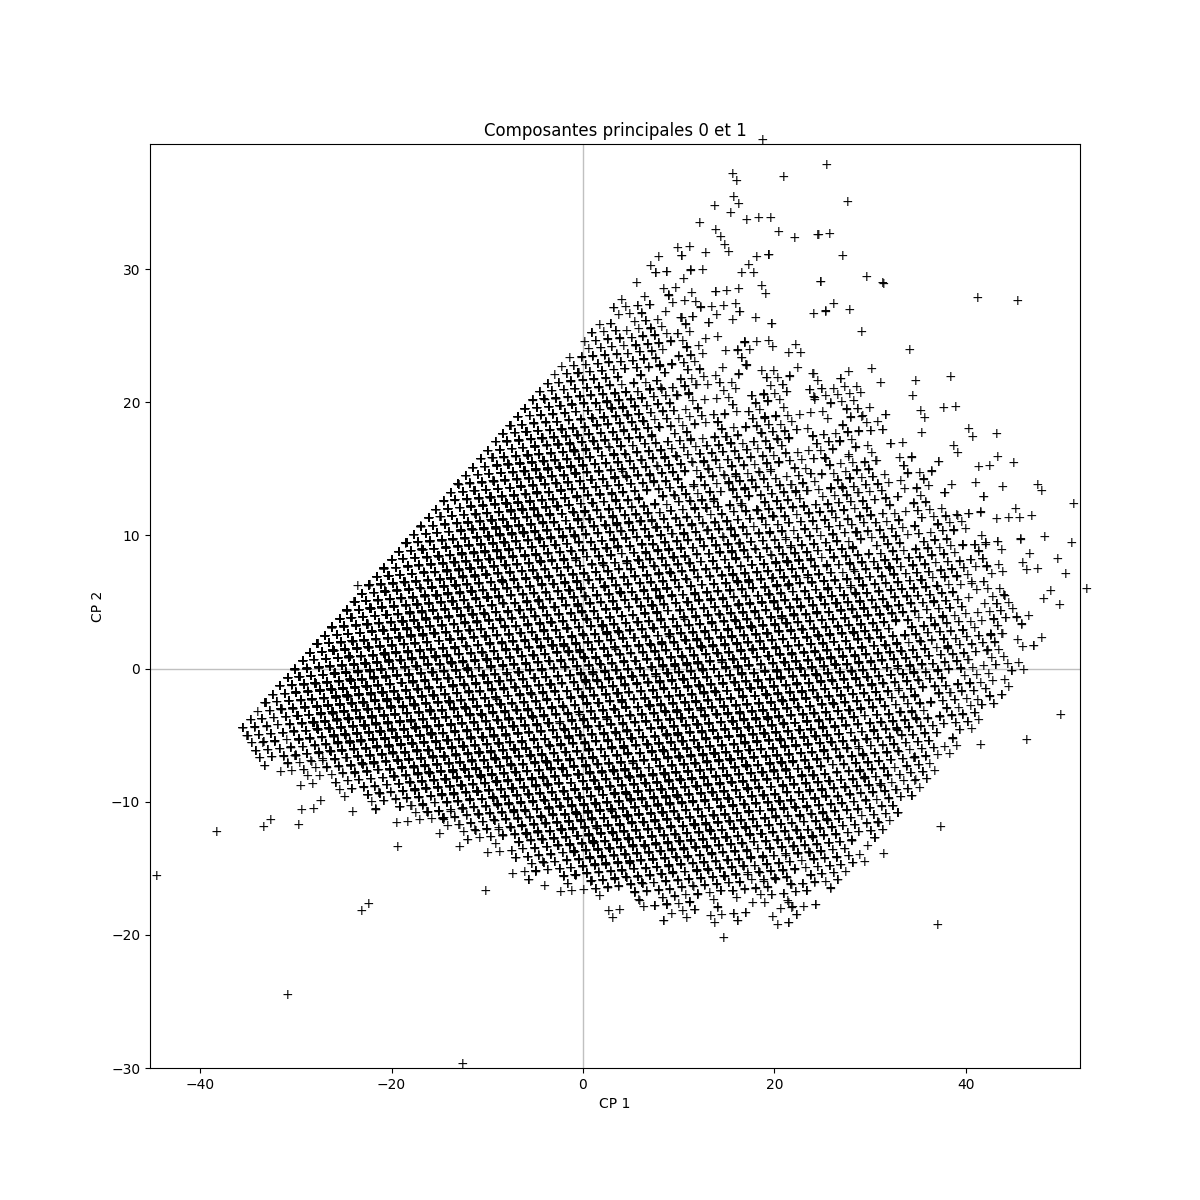
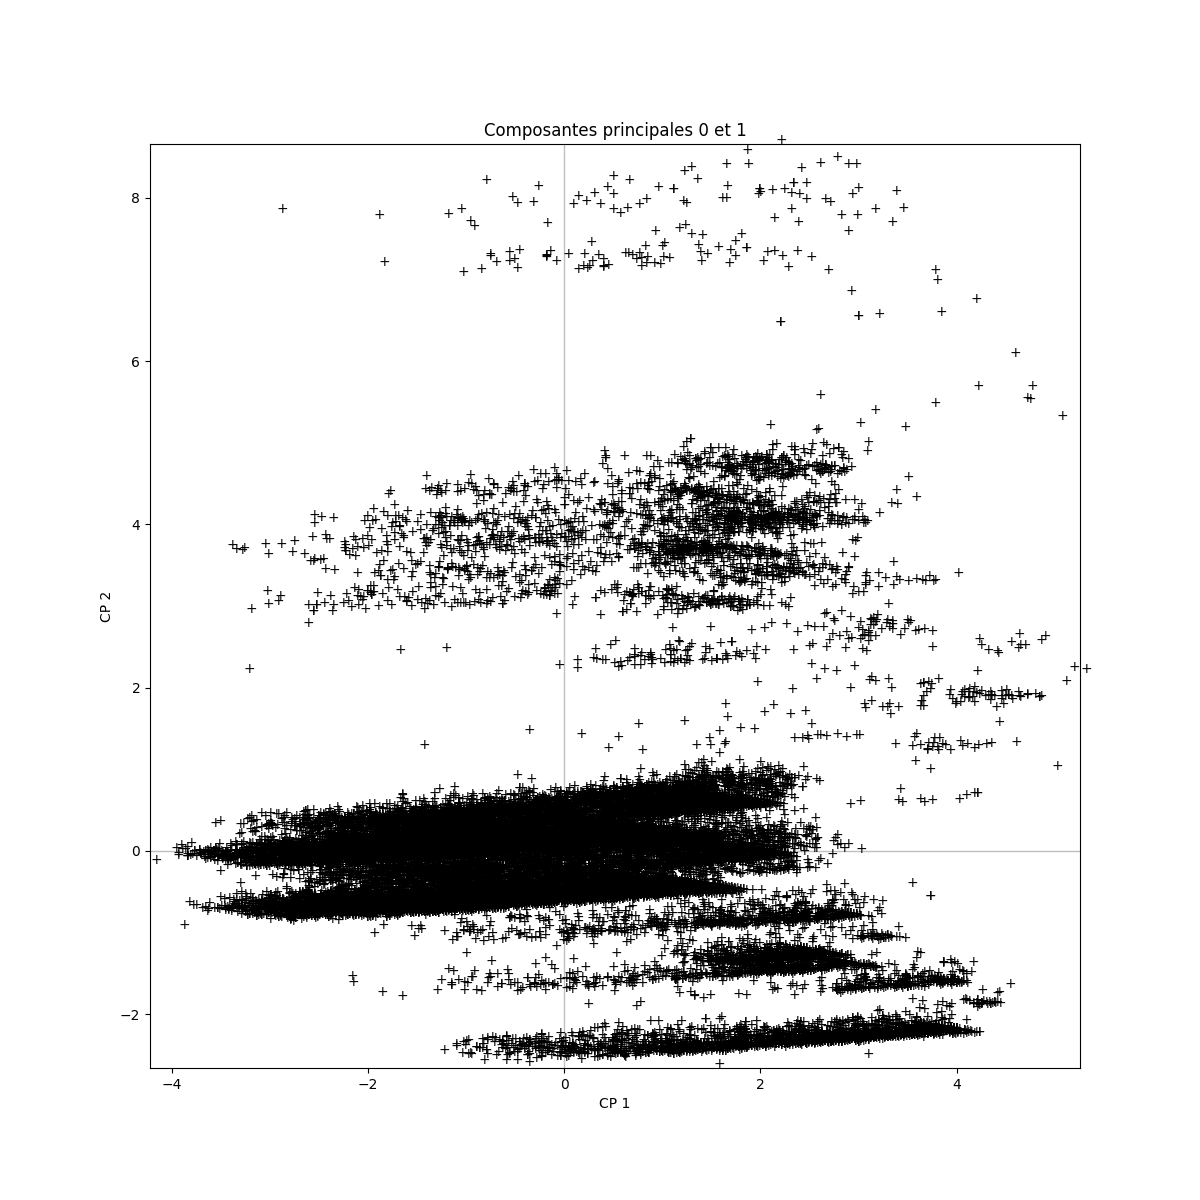
Normalisation des données, cercle des corrélations

diff --git a/Kowalski.py b/Kowalski.py
@@ -10,6 +10,7 @@ from sklearn.model_selection import cross_val_predict, cross_val_score
 from sklearn.metrics import confusion_matrix
 from sklearn.decomposition import PCA
 import matplotlib.pyplot as plt
+from sklearn.preprocessing import MinMaxScaler, StandardScaler
 
 def main():
     # Chargement des datasets
@@ -58,30 +59,44 @@ def main():
                             "CDCATCL": "categorie",
                             "DTADH": "annee_adh"})
 
-    # La colonne CDSITFAM est groupée par des lettres décrivant la situation familiale
-    # Remplacement de ces lettres par les numéro de lettre correspondant
-    # df["situation_fam"] = df["situation_fam"].apply(lambda x: ord(x.lower()) - 96).astype(int)
-
     # On ne garde que l'année de l'adhésion
     df["annee_adh"] = df["annee_adh"].str.slice(stop = 4).astype(int)
 
+    # Ligne 1: on ne discretise pas; Ligne 2: on discretise
+    # df["situation_fam"] = df["situation_fam"].apply(lambda x: ord(x.lower()) - 96).astype(int)
     df = discretization(df, ["categorie", "statut", "situation_fam", "sexe"])
 
     X, Y = get_XY(df, "d")
 
-    # ACP sur les données X_scaled
+    scaler = StandardScaler()
+    X_cols = X.columns
+    x_scaled = scaler.fit_transform(X.values)
+    X = pd.DataFrame(data = x_scaled, columns = X_cols)
+
+    print X
+
+    # ACP sur les données X
     acp = PCA(svd_solver = "full")
     coord = acp.fit_transform(X)
+    print(acp.explained_variance_ratio_)
     save_acp_graph(acp, coord, X, 0, 1)
     save_acp_graph(acp, coord, X, 2, 3)
-    print(acp.explained_variance_ratio_)
 
-# Discrétisation des données catégorielles
+    corvar, n, p = get_corvar(X, acp)
+
+    correlation_circle(X, p, 0, 1, corvar)
+    correlation_circle(X, p, 2, 3, corvar)
+
+# Discrétisation des données catégorielles passées en paramètre
 def discretization(df, col_list):
     for col in col_list:
         df = pd.concat([pd.get_dummies(df[col], prefix = col), df.drop(columns = col)], axis = 1)
     return df
 
+# Renvoie les données au format X et Y en fonction d'un choix :
+# d : X = démissionnaires
+# n : X = non démissionnaires
+# f : X = corpus complet
 def get_XY(df, choix):
     if choix == "d":
         return df[df["demissionnaire"] == True].drop(columns = "demissionnaire"), df[df["demissionnaire"] == True]["demissionnaire"]
@@ -92,6 +107,7 @@ def get_XY(df, choix):
     else:
         exit("erreur")
 
+# Teste de prédire les données avec 5 classifiers différents
 def test_predict(X, Y):
     # Initialisation des variables de classification
     dummycl = DummyClassifier(strategy = "most_frequent")
@@ -110,7 +126,8 @@ def test_predict(X, Y):
         print("Accuracy of " + name_clf + " classifier on cross-validation: %0.2f (+/- %0.2f)" % (scores.mean(), scores.std() * 2))
         print(confusion_matrix(Y, cross_val_predict(clf, X, Y, cv = 5)))
 
-def save_acp_graph(acp, coord, data, cp1, cp2):
+# Sauvegarde du graphe de l'acp par rapport à deux composantes cp1 et cp2
+def save_acp_graph(acp, coord, data, cp1, cp2, fixed = False):
     # Calcul des valeurs propres et de la matrice de corrélation des variables
     n = np.size(data, 0)
     p = np.size(data, 1)
@@ -123,10 +140,10 @@ def save_acp_graph(acp, coord, data, cp1, cp2):
 
     # Affichage des instances étiquetées par le code du pays suivant les 2 facteurs principaux de l"ACP
     fig, axes = plt.subplots(figsize = (12, 12))
-    xmin = min(coord[:, cp1])
-    xmax = max(coord[:, cp1])
-    ymin = min(coord[:, cp2])
-    ymax = max(coord[:, cp2])
+    xmin = min(coord[:, cp1]) if not fixed else (-45 if cp1 == 0 else -5)
+    xmax = max(coord[:, cp1]) if not fixed else (45 if cp1 == 0 else 5)
+    ymin = min(coord[:, cp2]) if not fixed else (-45 if cp1 == 0 else -5)
+    ymax = max(coord[:, cp2]) if not fixed else (45 if cp1 == 0 else 5)
     axes.set_xlim(xmin, xmax)
     axes.set_ylim(ymin, ymax)
 
@@ -140,6 +157,38 @@ def save_acp_graph(acp, coord, data, cp1, cp2):
     axes.set_ylabel("CP " + str(cp2 + 1))
     plt.savefig("fig/acp_instances_plan_" + str(cp1) + "-" + str(cp2))
     plt.close(fig)
+
+# Sauvegarde le cercle des corrélations
+def correlation_circle(df, nb_var, x_axis, y_axis, corvar):
+    fig, axes = plt.subplots(figsize = (8, 8))
+    axes.set_xlim(-1, 1)
+    axes.set_ylim(-1, 1)
+    axes.set_xlabel("CP" + str(x_axis + 1))
+    axes.set_ylabel("CP" + str(y_axis + 1))
+
+    for j in range(nb_var):
+        plt.annotate(df.columns[j], (corvar[j, x_axis], corvar[j, y_axis]))
+
+    plt.plot([-1, 1], [0, 0], color = "silver", linestyle = "-", linewidth = 1)
+    plt.plot([0, 0], [-1, 1], color = "silver", linestyle = "-", linewidth = 1)
+
+    cercle = plt.Circle((0, 0), 1, color = "blue", fill = False)
+    axes.add_artist(cercle)
+    plt.savefig("fig/acp_correlation_circle_axes_" + str(x_axis) + "_" + str(y_axis))
+    plt.close(fig)
+
+# Calcule la corvar de l'ACP
+def get_corvar(X, acp):
+    n = np.size(X, 0)
+    p = np.size(X, 1)
+    eigval = float(n - 1) / n * acp.explained_variance_
+    sqrt_eigval = np.sqrt(eigval)
+    corvar = np.zeros((p, p))
+
+    for k in range(p):
+        corvar[:, k] = acp.components_[k, :] * sqrt_eigval[k]
+    
+    return corvar, n, p
 
 if __name__ == "__main__":
     main()
